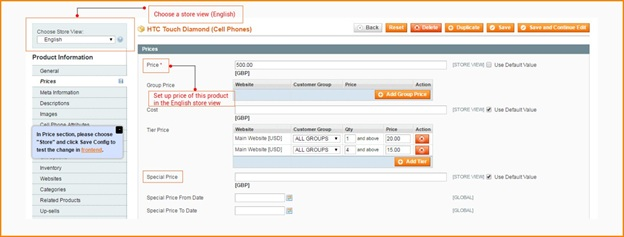
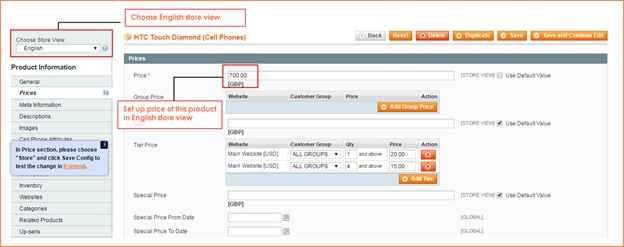
Order delivery date M2 update

Changed region(s): [[0.0, 0.0, 1.0, 1.0], [0.7308, 0.827, 0.7917, 0.9451]]

diff --git a/docs/magento_1/multi-store-pricing/user-guide.rst b/docs/magento_1/multi-store-pricing/user-guide.rst
@@ -63,7 +63,7 @@ You choose :italic:`Store` to enable the module. Then you click **Save Config** 
 	.. image:: images/multi_store_pricing_2.1.jpg
 
 	Step 2: In **Price** section (on the left side column), you unmark **"Use Default Value"** and add your wanted price for the product in this 
-	English store view: :pound:`500`, for instance 
+	English store view: :pound:`700`, for instance 
 
 	In addition, you can also set up **Special Prices** for this product 
 
@@ -107,13 +107,13 @@ You choose :italic:`Store` to enable the module. Then you click **Save Config** 
 	.. image:: images/multi_store_pricing_3.1.jpg
 
 	**Step 2**: In **Price** section (on the left side column), you unmark **"Use Default Value"** and add your wanted price for the product in this 
-	French store view: :euro:`550`, for instance 
+	French store view: :euro:`1000`, for instance 
 
 	Finally you save configuration in go to the frontend to see the changes:
 
 	**Price of HTC Touch Diamond (Cell Phones) in the French store view from the product page:** 
 
-	.. image:: images/multi_store_pricing_3.1.jpg
+	.. image:: images/multi_store_pricing_3.2.jpg
 
 4. Conclusion
 ^^^^^^^^^^^^^
